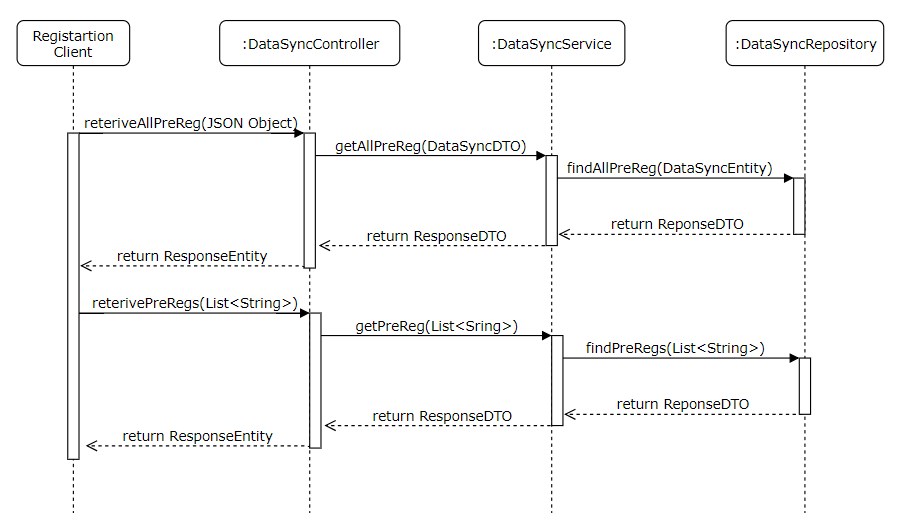
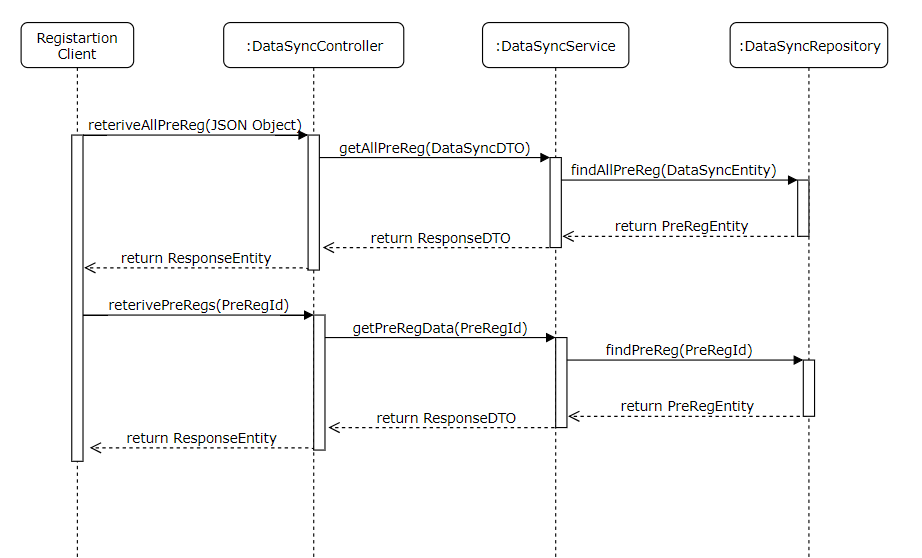
Update Design for Sprint 5

diff --git a/design/pre-registration/pre-registration-reverse-data-sync.md b/design/pre-registration/pre-registration-reverse-data-sync.md
@@ -29,15 +29,19 @@ The key non-functional requirements are
 
 **Solution**
 
-**Reterive all pre-registration Ids :**
+**Store all pre-registration Ids :**
 
 -   Create a REST API as '/reverseDataSync' POST method accept the JSON object  from the registration-processor.
 
 - The Registration Processor will provide the List of Pre-Registration IDs received by it(from Registration Client). 
 
-- The System will generate a Transaction ID and store all the Pre-Registration ids in table.
+- The System will generate a Transaction ID and store all the Pre-Registration ids in "prereg-i_processed_prereg_list" table and update in "prereg-processed_prereg_list" table.
 
--  Pre-Registration will receive the List of Pre-Registration Ids and will send an Acknowledgement of the Receipt ("need to be check BA(Vyas)")
+- The "prereg-i_processed_prereg_list" table is not permanent, for maintanance purpose database team can truncate this table.
+
+- A batch job need to be running to update the application.demoraphic table with "Processed" status.
+
+-  Once Pre-Registration successfully processed. System will send an Acknowledgement of the Receipt ("need to be check BA(Vyas)")
 
 -   Audit the exception/start/exit of the each stages of the reverse data sync mechanism using AuditManager component.
 

diff --git a/design/pre-registration/pre-registration-update.md b/design/pre-registration/pre-registration-update.md
@@ -114,15 +114,15 @@ Out of Scope
 
 **Class Diagram**
 
-![pre-registartion demographic update class diagram](_images/_class_diagram/pre-registartion-application-update-classDiagram.png)
+![pre-registration demographic update class diagram](_images/_class_diagram/pre-registartion-application-update-classDiagram.png)
 
-![pre-registartion document update class diagram](_images/_class_diagram/pre-registartion-document-update-classDiagram.png)
+![pre-registration document update class diagram](_images/_class_diagram/pre-registartion-document-update-classDiagram.png)
 
 **Sequence Diagram**
 
-![pre-registartion demographic update sequence diagram](_images/_sequence_diagram/pre-registration-demographic-update.png)
+![pre-registration demographic update sequence diagram](_images/_sequence_diagram/pre-registration-demographic-update.png)
 
-![pre-registartion document update sequence diagram](_images/_sequence_diagram/pre-registration-document-update.png)
+![pre-registration document update sequence diagram](_images/_sequence_diagram/pre-registration-document-update.png)
 
 **Success / Error Code**
 - While processing the Pre-Registration update if there is any error or successfully then send the respective success or error code to the UI from API layer as  Response object.

diff --git a/design/pre-registration/pre-registration-data-sync.md b/design/pre-registration/pre-registration-data-sync.md
@@ -84,11 +84,11 @@ The key non-functional requirements are
 
 **Reterive Pre-Registartions:**
 
--   Create a REST Service as '/datasync' GET Method, accept the list of pre-registartion ids from the registration-client application portal.
+-   Create a REST Service as '/datasync' GET Method, accept the pre-registartion id from the registration-client application portal.
 
-- The System will generate a Transaction ID and do the following operation need to be happen for each pre-registartion ids:
+- The System will generate a Transaction ID and do the following operation need to be happens:
 
-	 Step1: fetch all the demographic JSON object and appointment date time and decrypt JSON object , if successful go to next step otherwise throw an exception.
+	 Step1: fetch the demographic JSON object and appointment date time and decrypt JSON object , if successful go to next step otherwise throw an exception.
 
 	 Step2: fetch all the document and decrypt it, if successful go to next step otherwise throw an exception.
 
